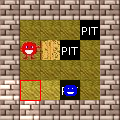
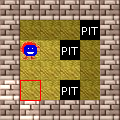
dokaze zabit wumpusa

Changed region(s): [[0.15, 0.325, 0.675, 0.675], [0.525, 0.7, 0.65, 0.825]]

diff --git a/src/MyAgent.java b/src/MyAgent.java
@@ -245,10 +245,23 @@ public  class MyAgent extends Agent{
 		kb.tell(a);		
 	}
 	
+	public boolean isSafe(int r, int c){
+		if (kb.ask(new ParameterLiteral(r, c, "wall", true))){
+			return false;
+		}
+		
+		return (kb.ask(new ParameterLiteral(r, c, "safe", true)));
+	}
+	
+	public boolean isNotSafe(int r, int c){
+		return (kb.ask(new ParameterLiteral(r, c, "pit", true))) ||
+				(kb.ask(new ParameterLiteral(r, c, "wumpus", true))) ||
+				(kb.ask(new ParameterLiteral(r, c, "wall", true)));
+	}
+	
 	public boolean isUnknown(int r, int c){
-		boolean ret = kb.ask(new ParameterLiteral(r, c, "wall", true)) ||
-				kb.ask(new ParameterLiteral(r, c, "safe", true));
-		return !ret;
+		boolean ret = !isSafe(r, c) && !isNotSafe(r, c);
+		return ret;
 	}
 	
 	// find nearest not visited safe or at least unknown tile using BFS
@@ -280,6 +293,12 @@ public  class MyAgent extends Agent{
 						return curState;
 					}
 				}
+				else if (goal.equals("wumpus")){
+					if (kb.ask(new ParameterLiteral(curState.pos.r, curState.pos.c, "wumpus", true))){
+						curState.prevAction = "killWumpus";
+						return curState;
+					}
+				}
 			}
 			
 			
@@ -289,6 +308,10 @@ public  class MyAgent extends Agent{
 				AgentStateIterator it = new AgentStateIterator(curState);
 				while(it.hasNext()){
 					AgentState pom = it.next();
+					if (goal.equals("safe") && !isSafe(pom.pos.r, pom.pos.c)) continue;
+					else if (goal.equals("unknown") && !isSafe(pom.pos.r, pom.pos.c) && !isUnknown(pom.pos.r, pom.pos.c)) continue;
+					else if (goal.equals("wumpus") && !isSafe(pom.pos.r, pom.pos.c) && !kb.ask(new ParameterLiteral(pom.pos.r, pom.pos.c, "wumpus", true))) continue;
+					
 					if ((pom != null) && (!close.contains(pom))){
 						open.add(pom);
 					}
@@ -310,40 +333,7 @@ public  class MyAgent extends Agent{
 			pickUp();
 			goldGrabbed = true;
 			return;
-		}/*else{
-			Random rand = new Random();
-			
-			while(true){
-				int x = rand.nextInt() % 2;
-				
-				System.out.println(orientation + " " + r + " " + c);
-				
-				int pomr = r + dir_r.get(orientation);
-				int pomc = c + dir_c.get(orientation);
-				
-				System.out.println("WANT" + pomr + " " + pomc);
-				
-				if (x == 0 && canFW()){
-					moveFW();
-					r = r + dir_r.get(orientation);
-					c = c + dir_c.get(orientation);
-					rotation_count = 0;
-					break;
-				}
-				else if (x == 0 && cannotFW()){
-					continue;
-				}
-				else{
-					turnLEFT();
-					orientation = (orientation - 1 + 4) % 4;
-					rotation_count++;
-					break;
-				}
-			}
-		}*/
-		
-		
-		
+		}
 		else if (actionStack.size() == 0){
 			// reset myState previous actions
 			myState.prevAction = null;
@@ -357,6 +347,13 @@ public  class MyAgent extends Agent{
 				myState,
 				"safe"
 			);
+			if (goal == null){
+				goal = BFS(
+						kb,
+						myState,
+						"wumpus"
+					);
+			}
 			
 			AgentState cur = goal;
 			
@@ -385,6 +382,11 @@ public  class MyAgent extends Agent{
 			else if (action == "forward"){
 				moveFW();
 				myState = myState.getFW();
+				return;
+			}
+			else if (action == "killWumpus"){
+				shoot();
+				kb.tell(new Literal("wumpusDead", true)); // zabili sme wumpusa
 				return;
 			}
 		}

diff --git a/src/AgentState.java b/src/AgentState.java
@@ -45,25 +45,10 @@ public class AgentState {
 		return new AgentState(this.pos, (orientation + 1) % 4, kb, this, "rotateRIGHT", this.dist + 1, this.dest);
 	}
 	
-	
-	public boolean canFW(){
-		if (kb.ask(new ParameterLiteral(pos.r + dir_r.get(orientation), pos.c + dir_c.get(orientation), "wall", true))){
-			return false;
-		}
-		
-		return (kb.ask(new ParameterLiteral(pos.r + dir_r.get(orientation), pos.c + dir_c.get(orientation), "safe", true)));
-	}
-	
-	public boolean cannotFW(){
-		return (kb.ask(new ParameterLiteral(pos.r + dir_r.get(orientation), pos.c + dir_c.get(orientation), "pit", true))) ||
-				(kb.ask(new ParameterLiteral(pos.r + dir_r.get(orientation), pos.c + dir_c.get(orientation), "wumpus", true))) ||
-				(kb.ask(new ParameterLiteral(pos.r + dir_r.get(orientation), pos.c + dir_c.get(orientation), "wall", true)));
-	}
-	
-	public AgentState getFW(){
-		if (!canFW()) return null;
+	public AgentState getFW(){		
 		return new AgentState(new Position(pos.r + dir_r.get(orientation), pos.c + dir_c.get(orientation)), orientation, kb, this, "forward", this.dist + 1, this.dest);
 	}
+
 	
 	// returns value for comparation in heuristics
 	public int compVal(){
